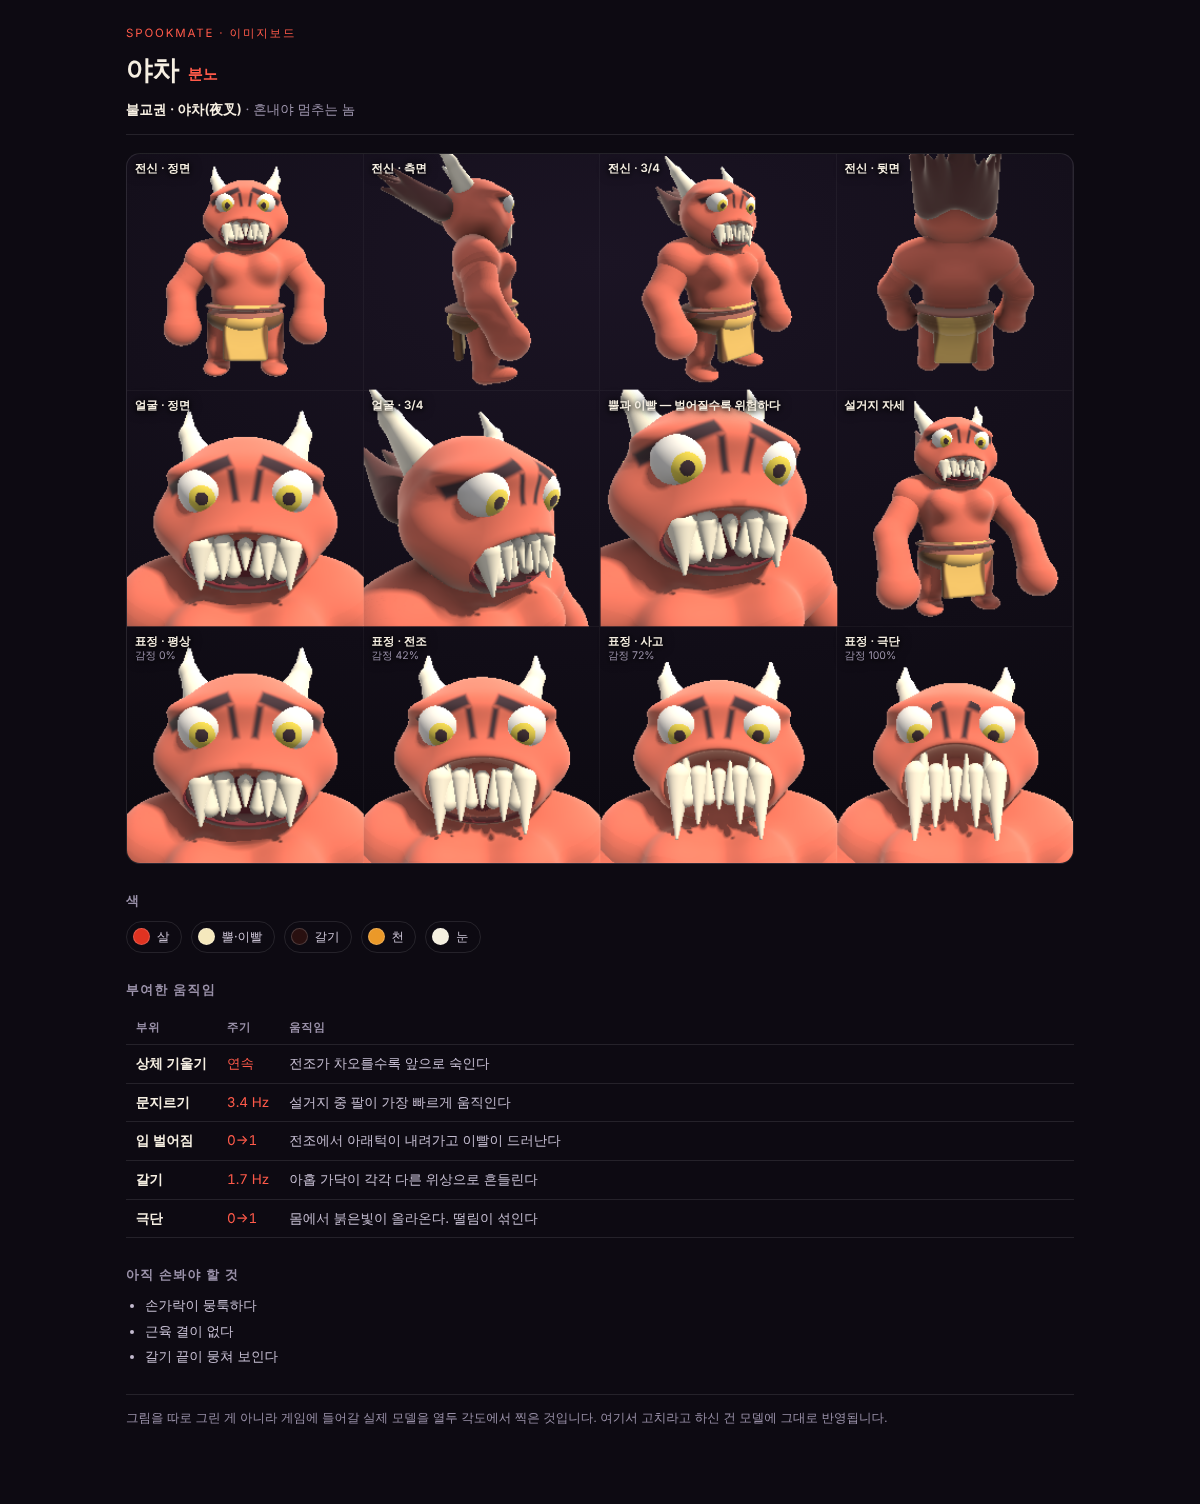
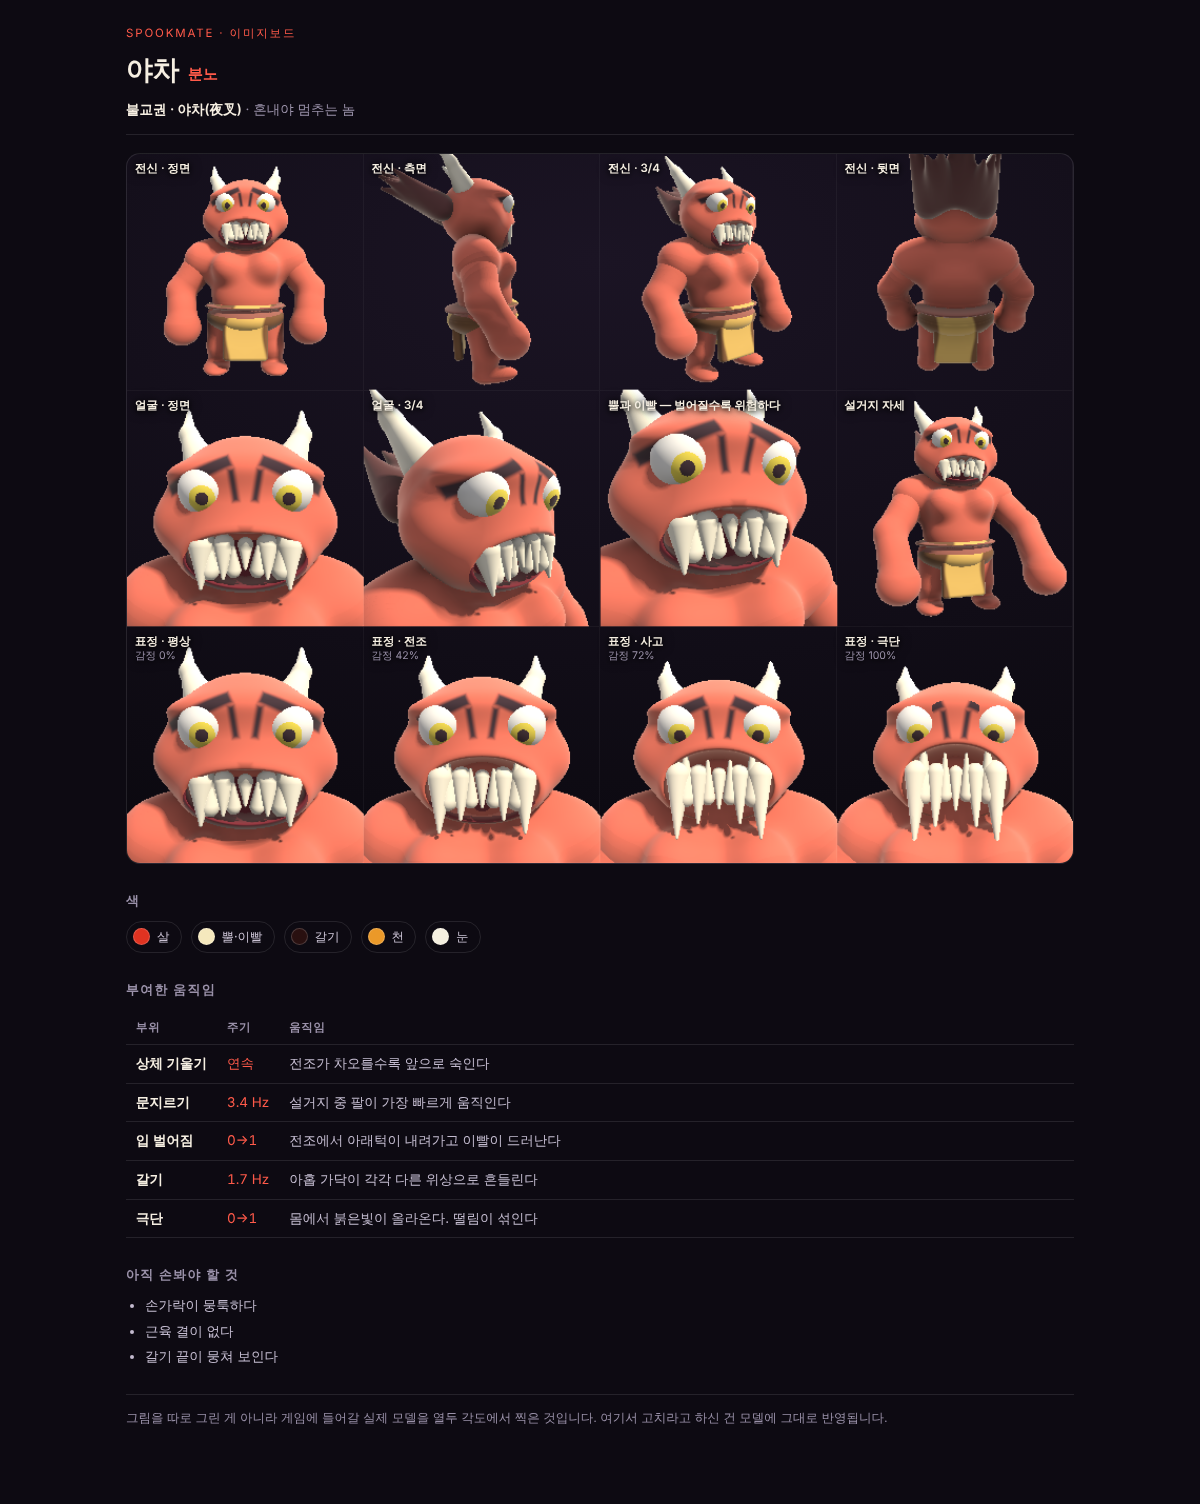
카파에 제대로 된 등껍질을 올린다
있긴 했는데 몸 뒤에 묻혀 정면에서 안 보였고, 색도 피부와 거의
같아 껍질로 읽히지 않았다. 거북이라는 게 어느 각도에서든
보여야 한다.

- 등갑을 몸보다 넓게 키워 정면에서 양옆으로 비어져 나온다.
- 가장자리에 연변갑판 테를 두르고, 능선 하나와 방사형 홈
  다섯을 파서 갑판을 나눴다.
- 배갑을 가슴에 붙였다. 정면에서도 거북으로 읽힌다.
- 등갑은 어두운 올리브, 배갑은 밝은 황갈색으로 재질을 갈랐다.
  둘 다 피부색이면 색 차이가 없어 형태가 안 보인다.

Claude-Session: https://claude.ai/code/session_015YWoPAaGt5xP3KZ9NoLzs4

Changed region(s): [[0.8325, 0.3438, 0.8942, 0.4062], [0.74, 0.375, 0.7708, 0.4062]]

diff --git a/preview/sheet/kappa.html b/preview/sheet/kappa.html
@@ -43,10 +43,10 @@
   <p class="meta"><b>일본 · 카파(河童)</b> · 칭찬하면 물을 쏟는 놈</p>
  </div>
  <div class="stage"><canvas id="cv"></canvas><div class="tags"><div><b>전신 · 정면</b></div><div><b>전신 · 측면</b></div><div><b>전신 · 3/4</b></div><div><b>전신 · 뒷면</b></div><div><b>얼굴 · 정면</b></div><div><b>얼굴 · 3/4</b></div><div><b>머리 접시 — 물이 마르면 힘을 잃는다</b></div><div><b>로우 앵글</b></div><div><b>표정 · 평상</b>감정 0%</div><div><b>표정 · 전조</b>감정 42%</div><div><b>표정 · 사고</b>감정 72%</div><div><b>표정 · 극단</b>감정 100%</div></div></div>
- <h2>색</h2><div class="pal"><div><i style="background:#6ba861"></i>살</div><div><i style="background:#4d6b42"></i>등껍질</div><div><i style="background:#eac23d"></i>부리</div><div><i style="background:#f7f5e6"></i>흰자</div><div><i style="background:#6bb8db"></i>접시 물</div></div>
+ <h2>색</h2><div class="pal"><div><i style="background:#6ba861"></i>살</div><div><i style="background:#464d2c"></i>등껍질</div><div><i style="background:#c4b280"></i>배갑</div><div><i style="background:#eac23d"></i>부리</div><div><i style="background:#f7f5e6"></i>흰자</div><div><i style="background:#6bb8db"></i>접시 물</div></div>
  <h2>부여한 움직임</h2>
  <table><thead><tr><th>부위</th><th>주기</th><th>움직임</th></tr></thead><tbody><tr><td>폴짝</td><td>1.9 Hz</td><td>세로로 4.5% 튀어 오른다. 가장 활발하다</td></tr><tr><td>팔</td><td>1.9 Hz</td><td>뛰는 박자에 맞춰 좌우가 엇갈린다</td></tr><tr><td>접시 물</td><td>2.6 Hz</td><td>수면이 찰랑인다</td></tr><tr><td>몸 기울기</td><td>1.9 Hz</td><td>뛸 때마다 좌우로 기운다</td></tr><tr><td>극단</td><td>0→1</td><td>팔을 들고 접시가 기울어 물이 쏟아진다. 물방울이 날린다</td></tr></tbody></table>
- <h2>아직 손봐야 할 것</h2><ul class="todo"><li>등껍질 무늬가 없다</li><li>물갈퀴가 뭉툭하다</li><li>접시 물이 더 선명해야 의욕 게이지로 쓸 수 있다</li></ul>
+ <h2>아직 손봐야 할 것</h2><ul class="todo"><li>물갈퀴가 뭉툭하다</li><li>등껍질이 몸에 비해 커서 뒤에서 보면 원반 같다</li><li>부리와 얼굴 경계가 뭉개진다</li></ul>
  <p class="foot">그림을 따로 그린 게 아니라 게임에 들어갈 실제 모델을 열두 각도에서 찍은 것입니다. 여기서 고치라고 하신 건 모델에 그대로 반영됩니다.</p>
 </div>
 <script>
@@ -82,10 +82,24 @@ vec2 mapKappa(vec3 p){
   float bd=sdEll(q-vec3(0.,-.02,.02),vec3(.34,.33,.30));
   bd=smin(bd,sdEll(q-vec3(0.,-.30,.02),vec3(.28,.14,.26)),.14);
   vec2 r=vec2(bd,0.);
-  /* 등껍질 */
-  float shl=sdEll(q-vec3(0.,.00,-.20),vec3(.40,.38,.26));
-  shl=max(shl,-(q.z+.02));
+  /* 등껍질 — 몸보다 넓어서 정면에서도 양옆으로 비어져 나온다 */
+  vec3 sq=q-vec3(0.,.02,-.13);
+  float shl=sdEll(sq,vec3(.475,.445,.335));
+  shl=max(shl,sq.z-.15);                                  /* 앞을 열어 몸을 뺀다 */
+  /* 연변갑판 — 가장자리를 한 바퀴 두른 테 */
+  float marg=sdTor(rotX(sq,1.5708),vec2(.445,.062));
+  marg=max(marg,sq.z-.15);
+  shl=smin(shl,marg,.045);
+  /* 갑판 홈 — 능선 하나와 방사형 다섯 */
+  shl=smax(shl,-sdTor(rotX(sq-vec3(0.,0.,.02),1.5708),vec2(.295,.026)),.035);
+  for(int i=0;i<5;i++){ float a=(float(i)-2.)*1.256;
+    shl=smax(shl,-sdCap(sq,vec3(sin(a)*.07,cos(a)*.07,-.31),
+                           vec3(sin(a)*.49,cos(a)*.49,.06),.024),.035); }
   if(shl<r.x)r=vec2(shl,1.);
+  /* 배갑 — 정면에서도 거북이라는 걸 알 수 있게 */
+  float pla=sdEll(q-vec3(0.,-.05,.285),vec3(.225,.255,.060));
+  pla=smax(pla,-sdTor(rotX(q-vec3(0.,-.05,.30),1.5708),vec2(.165,.016)),.025);
+  if(pla<r.x)r=vec2(pla,7.);
   /* 머리 */
   vec3 hp=vec3(0.,.44,.02);
   float hd=sdEll(q-hp,vec3(.30,.27,.28));
@@ -153,12 +167,13 @@ vec3 palette(float m){
     return vec3(.93,.91,.88); }
   if(gC==4){                                    /* 카파 — 초록 */
     if(m<.5) return vec3(.42,.66,.38);
-    if(m<1.5)return vec3(.30,.42,.26);
+    if(m<1.5)return vec3(.24,.27,.14);
     if(m<2.5)return vec3(.42,.66,.38);
     if(m<3.5)return vec3(.97,.96,.90);
     if(m<4.5)return vec3(.92,.76,.24);
     if(m<5.5)return vec3(.42,.72,.86);
-    return vec3(.07,.09,.11); }
+    if(m<6.5)return vec3(.07,.09,.11);
+    return vec3(.76,.69,.42); }
   if(m<.5) return vec3(.56,.62,.34);            /* 아카나메 — 기름기 도는 녹갈색 */
   if(m<1.5)return vec3(.40,.44,.24);
   if(m<2.5)return vec3(.56,.62,.34);

diff --git a/preview/cast6-peak.html b/preview/cast6-peak.html
@@ -301,10 +301,24 @@ vec2 mapKappa(vec3 p){
   float bd=sdEll(q-vec3(0.,-.02,.02),vec3(.34,.33,.30));
   bd=smin(bd,sdEll(q-vec3(0.,-.30,.02),vec3(.28,.14,.26)),.14);
   vec2 r=vec2(bd,0.);
-  /* 등껍질 */
-  float shl=sdEll(q-vec3(0.,.00,-.20),vec3(.40,.38,.26));
-  shl=max(shl,-(q.z+.02));
+  /* 등껍질 — 몸보다 넓어서 정면에서도 양옆으로 비어져 나온다 */
+  vec3 sq=q-vec3(0.,.02,-.13);
+  float shl=sdEll(sq,vec3(.475,.445,.335));
+  shl=max(shl,sq.z-.15);                                  /* 앞을 열어 몸을 뺀다 */
+  /* 연변갑판 — 가장자리를 한 바퀴 두른 테 */
+  float marg=sdTor(rotX(sq,1.5708),vec2(.445,.062));
+  marg=max(marg,sq.z-.15);
+  shl=smin(shl,marg,.045);
+  /* 갑판 홈 — 능선 하나와 방사형 다섯 */
+  shl=smax(shl,-sdTor(rotX(sq-vec3(0.,0.,.02),1.5708),vec2(.295,.026)),.035);
+  for(int i=0;i<5;i++){ float a=(float(i)-2.)*1.256;
+    shl=smax(shl,-sdCap(sq,vec3(sin(a)*.07,cos(a)*.07,-.31),
+                           vec3(sin(a)*.49,cos(a)*.49,.06),.024),.035); }
   if(shl<r.x)r=vec2(shl,1.);
+  /* 배갑 — 정면에서도 거북이라는 걸 알 수 있게 */
+  float pla=sdEll(q-vec3(0.,-.05,.285),vec3(.225,.255,.060));
+  pla=smax(pla,-sdTor(rotX(q-vec3(0.,-.05,.30),1.5708),vec2(.165,.016)),.025);
+  if(pla<r.x)r=vec2(pla,7.);
   /* 머리 */
   vec3 hp=vec3(0.,.44,.02);
   float hd=sdEll(q-hp,vec3(.30,.27,.28));
@@ -424,12 +438,13 @@ const PAL=`vec3 palette(float m){
     return vec3(.93,.91,.88); }
   if(gC==4){                                    /* 카파 — 초록 */
     if(m<.5) return vec3(.42,.66,.38);
-    if(m<1.5)return vec3(.30,.42,.26);
+    if(m<1.5)return vec3(.24,.27,.14);
     if(m<2.5)return vec3(.42,.66,.38);
     if(m<3.5)return vec3(.97,.96,.90);
     if(m<4.5)return vec3(.92,.76,.24);
     if(m<5.5)return vec3(.42,.72,.86);
-    return vec3(.07,.09,.11); }
+    if(m<6.5)return vec3(.07,.09,.11);
+    return vec3(.76,.69,.42); }
   if(m<.5) return vec3(.56,.62,.34);            /* 아카나메 — 기름기 도는 녹갈색 */
   if(m<1.5)return vec3(.40,.44,.24);
   if(m<2.5)return vec3(.56,.62,.34);

diff --git a/preview/cast6.html b/preview/cast6.html
@@ -265,10 +265,24 @@ vec2 mapKappa(vec3 p){
   float bd=sdEll(q-vec3(0.,-.02,.02),vec3(.34,.33,.30));
   bd=smin(bd,sdEll(q-vec3(0.,-.30,.02),vec3(.28,.14,.26)),.14);
   vec2 r=vec2(bd,0.);
-  /* 등껍질 */
-  float shl=sdEll(q-vec3(0.,.00,-.20),vec3(.40,.38,.26));
-  shl=max(shl,-(q.z+.02));
+  /* 등껍질 — 몸보다 넓어서 정면에서도 양옆으로 비어져 나온다 */
+  vec3 sq=q-vec3(0.,.02,-.13);
+  float shl=sdEll(sq,vec3(.475,.445,.335));
+  shl=max(shl,sq.z-.15);                                  /* 앞을 열어 몸을 뺀다 */
+  /* 연변갑판 — 가장자리를 한 바퀴 두른 테 */
+  float marg=sdTor(rotX(sq,1.5708),vec2(.445,.062));
+  marg=max(marg,sq.z-.15);
+  shl=smin(shl,marg,.045);
+  /* 갑판 홈 — 능선 하나와 방사형 다섯 */
+  shl=smax(shl,-sdTor(rotX(sq-vec3(0.,0.,.02),1.5708),vec2(.295,.026)),.035);
+  for(int i=0;i<5;i++){ float a=(float(i)-2.)*1.256;
+    shl=smax(shl,-sdCap(sq,vec3(sin(a)*.07,cos(a)*.07,-.31),
+                           vec3(sin(a)*.49,cos(a)*.49,.06),.024),.035); }
   if(shl<r.x)r=vec2(shl,1.);
+  /* 배갑 — 정면에서도 거북이라는 걸 알 수 있게 */
+  float pla=sdEll(q-vec3(0.,-.05,.285),vec3(.225,.255,.060));
+  pla=smax(pla,-sdTor(rotX(q-vec3(0.,-.05,.30),1.5708),vec2(.165,.016)),.025);
+  if(pla<r.x)r=vec2(pla,7.);
   /* 머리 */
   vec3 hp=vec3(0.,.44,.02);
   float hd=sdEll(q-hp,vec3(.30,.27,.28));
@@ -382,12 +396,13 @@ const PAL=`vec3 palette(float m){
     return vec3(.93,.91,.88); }
   if(gC==4){                                    /* 카파 — 초록 */
     if(m<.5) return vec3(.42,.66,.38);
-    if(m<1.5)return vec3(.30,.42,.26);
+    if(m<1.5)return vec3(.24,.27,.14);
     if(m<2.5)return vec3(.42,.66,.38);
     if(m<3.5)return vec3(.97,.96,.90);
     if(m<4.5)return vec3(.92,.76,.24);
     if(m<5.5)return vec3(.42,.72,.86);
-    return vec3(.07,.09,.11); }
+    if(m<6.5)return vec3(.07,.09,.11);
+    return vec3(.76,.69,.42); }
   if(m<.5) return vec3(.56,.62,.34);            /* 아카나메 — 기름기 도는 녹갈색 */
   if(m<1.5)return vec3(.40,.44,.24);
   if(m<2.5)return vec3(.56,.62,.34);

diff --git a/preview/sheet/aka.html b/preview/sheet/aka.html
@@ -150,12 +150,13 @@ vec3 palette(float m){
     return vec3(.93,.91,.88); }
   if(gC==4){                                    /* 카파 — 초록 */
     if(m<.5) return vec3(.42,.66,.38);
-    if(m<1.5)return vec3(.30,.42,.26);
+    if(m<1.5)return vec3(.24,.27,.14);
     if(m<2.5)return vec3(.42,.66,.38);
     if(m<3.5)return vec3(.97,.96,.90);
     if(m<4.5)return vec3(.92,.76,.24);
     if(m<5.5)return vec3(.42,.72,.86);
-    return vec3(.07,.09,.11); }
+    if(m<6.5)return vec3(.07,.09,.11);
+    return vec3(.76,.69,.42); }
   if(m<.5) return vec3(.56,.62,.34);            /* 아카나메 — 기름기 도는 녹갈색 */
   if(m<1.5)return vec3(.40,.44,.24);
   if(m<2.5)return vec3(.56,.62,.34);

diff --git a/preview/sheet/eodook.html b/preview/sheet/eodook.html
@@ -132,12 +132,13 @@ vec3 palette(float m){
     return vec3(.93,.91,.88); }
   if(gC==4){                                    /* 카파 — 초록 */
     if(m<.5) return vec3(.42,.66,.38);
-    if(m<1.5)return vec3(.30,.42,.26);
+    if(m<1.5)return vec3(.24,.27,.14);
     if(m<2.5)return vec3(.42,.66,.38);
     if(m<3.5)return vec3(.97,.96,.90);
     if(m<4.5)return vec3(.92,.76,.24);
     if(m<5.5)return vec3(.42,.72,.86);
-    return vec3(.07,.09,.11); }
+    if(m<6.5)return vec3(.07,.09,.11);
+    return vec3(.76,.69,.42); }
   if(m<.5) return vec3(.56,.62,.34);            /* 아카나메 — 기름기 도는 녹갈색 */
   if(m<1.5)return vec3(.40,.44,.24);
   if(m<2.5)return vec3(.56,.62,.34);

diff --git a/preview/sheet/kudan.html b/preview/sheet/kudan.html
@@ -158,12 +158,13 @@ vec3 palette(float m){
     return vec3(.93,.91,.88); }
   if(gC==4){                                    /* 카파 — 초록 */
     if(m<.5) return vec3(.42,.66,.38);
-    if(m<1.5)return vec3(.30,.42,.26);
+    if(m<1.5)return vec3(.24,.27,.14);
     if(m<2.5)return vec3(.42,.66,.38);
     if(m<3.5)return vec3(.97,.96,.90);
     if(m<4.5)return vec3(.92,.76,.24);
     if(m<5.5)return vec3(.42,.72,.86);
-    return vec3(.07,.09,.11); }
+    if(m<6.5)return vec3(.07,.09,.11);
+    return vec3(.76,.69,.42); }
   if(m<.5) return vec3(.56,.62,.34);            /* 아카나메 — 기름기 도는 녹갈색 */
   if(m<1.5)return vec3(.40,.44,.24);
   if(m<2.5)return vec3(.56,.62,.34);

diff --git a/preview/sheet/nuppe.html b/preview/sheet/nuppe.html
@@ -147,12 +147,13 @@ vec3 palette(float m){
     return vec3(.93,.91,.88); }
   if(gC==4){                                    /* 카파 — 초록 */
     if(m<.5) return vec3(.42,.66,.38);
-    if(m<1.5)return vec3(.30,.42,.26);
+    if(m<1.5)return vec3(.24,.27,.14);
     if(m<2.5)return vec3(.42,.66,.38);
     if(m<3.5)return vec3(.97,.96,.90);
     if(m<4.5)return vec3(.92,.76,.24);
     if(m<5.5)return vec3(.42,.72,.86);
-    return vec3(.07,.09,.11); }
+    if(m<6.5)return vec3(.07,.09,.11);
+    return vec3(.76,.69,.42); }
   if(m<.5) return vec3(.56,.62,.34);            /* 아카나메 — 기름기 도는 녹갈색 */
   if(m<1.5)return vec3(.40,.44,.24);
   if(m<2.5)return vec3(.56,.62,.34);

diff --git a/preview/sheet/urong.html b/preview/sheet/urong.html
@@ -158,12 +158,13 @@ vec3 palette(float m){
     return vec3(.93,.91,.88); }
   if(gC==4){                                    /* 카파 — 초록 */
     if(m<.5) return vec3(.42,.66,.38);
-    if(m<1.5)return vec3(.30,.42,.26);
+    if(m<1.5)return vec3(.24,.27,.14);
     if(m<2.5)return vec3(.42,.66,.38);
     if(m<3.5)return vec3(.97,.96,.90);
     if(m<4.5)return vec3(.92,.76,.24);
     if(m<5.5)return vec3(.42,.72,.86);
-    return vec3(.07,.09,.11); }
+    if(m<6.5)return vec3(.07,.09,.11);
+    return vec3(.76,.69,.42); }
   if(m<.5) return vec3(.56,.62,.34);            /* 아카나메 — 기름기 도는 녹갈색 */
   if(m<1.5)return vec3(.40,.44,.24);
   if(m<2.5)return vec3(.56,.62,.34);

diff --git a/tools/make-sheets.py b/tools/make-sheets.py
@@ -122,8 +122,8 @@ CAST = [
         ('접시 물','2.6 Hz','수면이 찰랑인다'),
         ('몸 기울기','1.9 Hz','뛸 때마다 좌우로 기운다'),
         ('극단','0→1','팔을 들고 접시가 기울어 물이 쏟아진다. 물방울이 날린다')],
-   pal=[('살','#6ba861'),('등껍질','#4d6b42'),('부리','#eac23d'),('흰자','#f7f5e6'),('접시 물','#6bb8db')],
-   todo=['등껍질 무늬가 없다','물갈퀴가 뭉툭하다','접시 물이 더 선명해야 의욕 게이지로 쓸 수 있다']),
+   pal=[('살','#6ba861'),('등껍질','#464d2c'),('배갑','#c4b280'),('부리','#eac23d'),('흰자','#f7f5e6'),('접시 물','#6bb8db')],
+   todo=['물갈퀴가 뭉툭하다','등껍질이 몸에 비해 커서 뒤에서 보면 원반 같다','부리와 얼굴 경계가 뭉개진다']),
  dict(k='aka', name='아카나메', emo='혐오', game=0, idx=5, c='#b6d46a',
    origin='일본 · 아카나메(垢嘗)', tag='기준이 뒤집힌 놈',
    body=(0,.00,0), bd=2.65, face=(0,.46,.16), fd=1.20, det=(0,-.14,.30), dd=1.30, dyaw=.20, dpit=.04,
